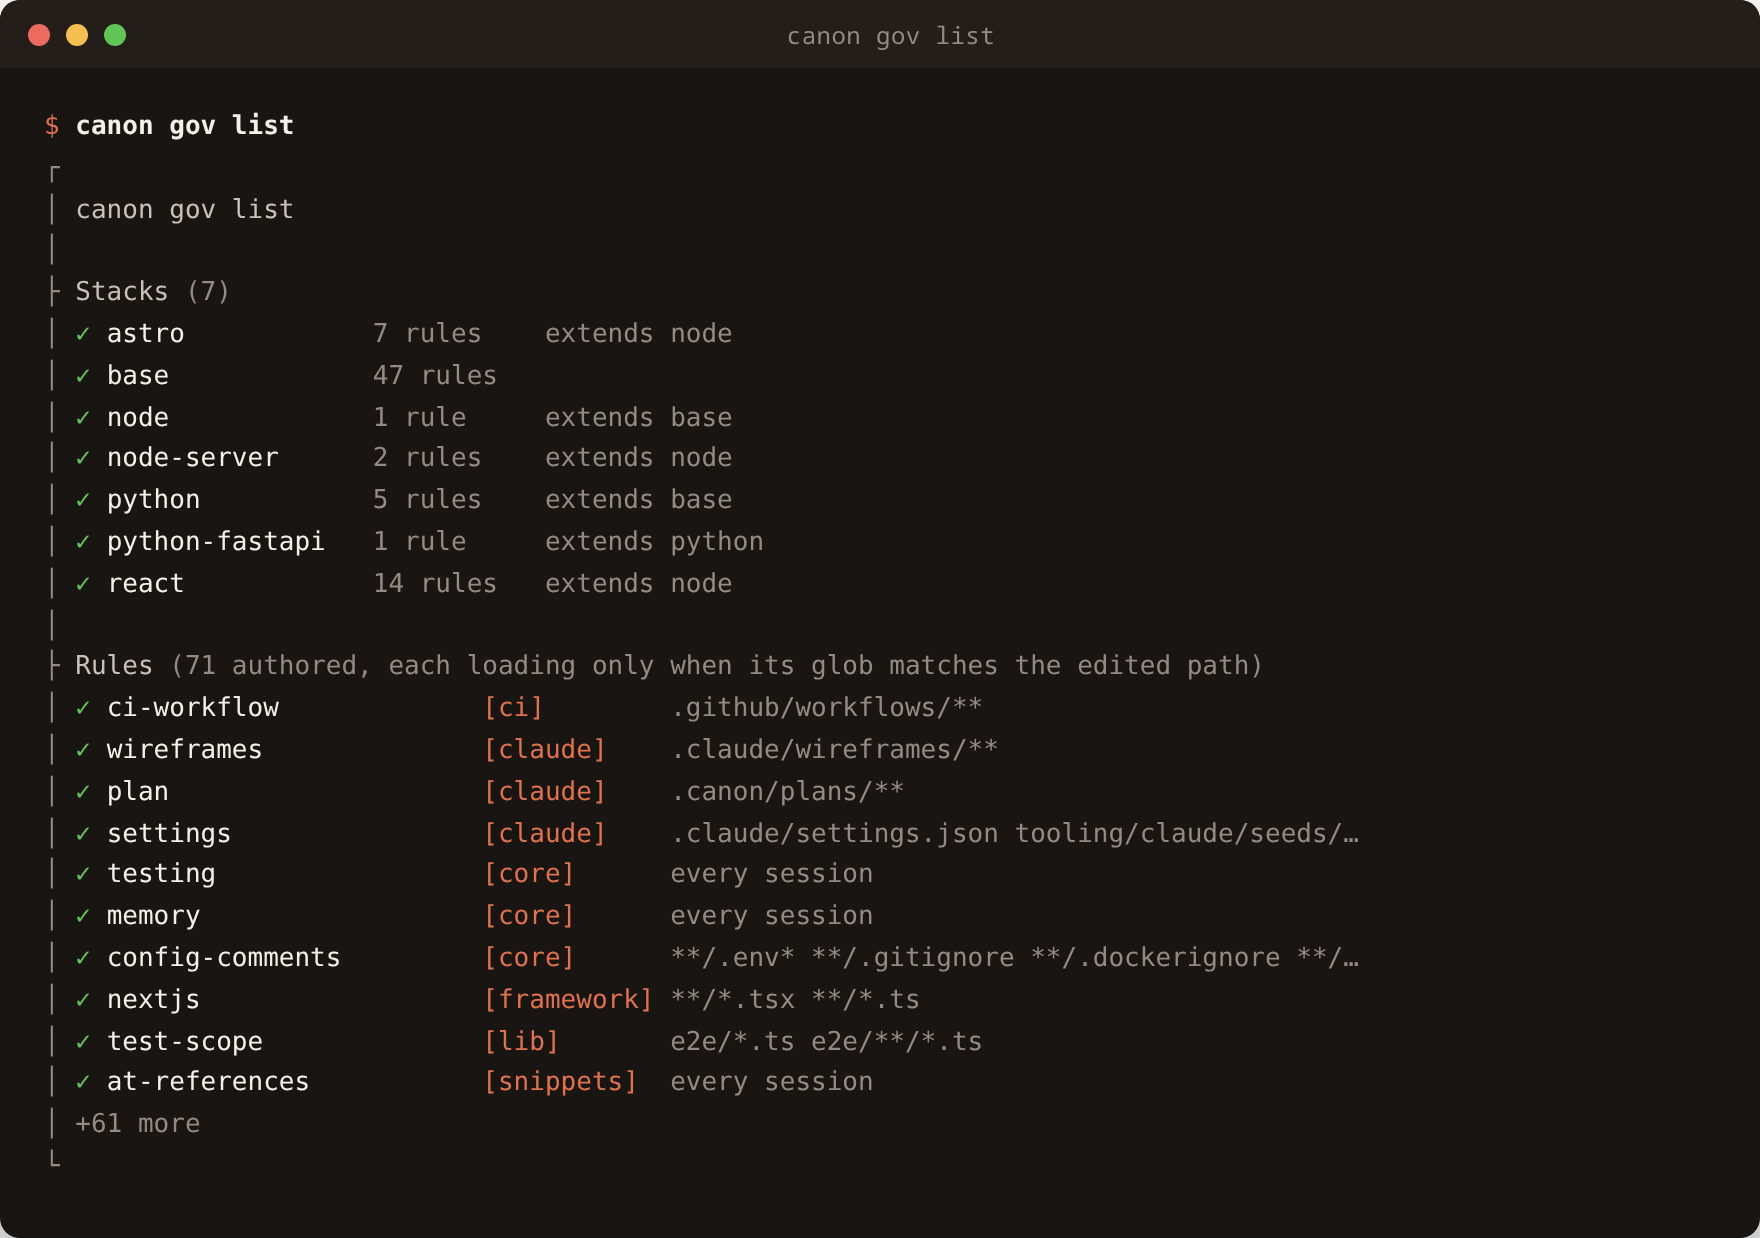
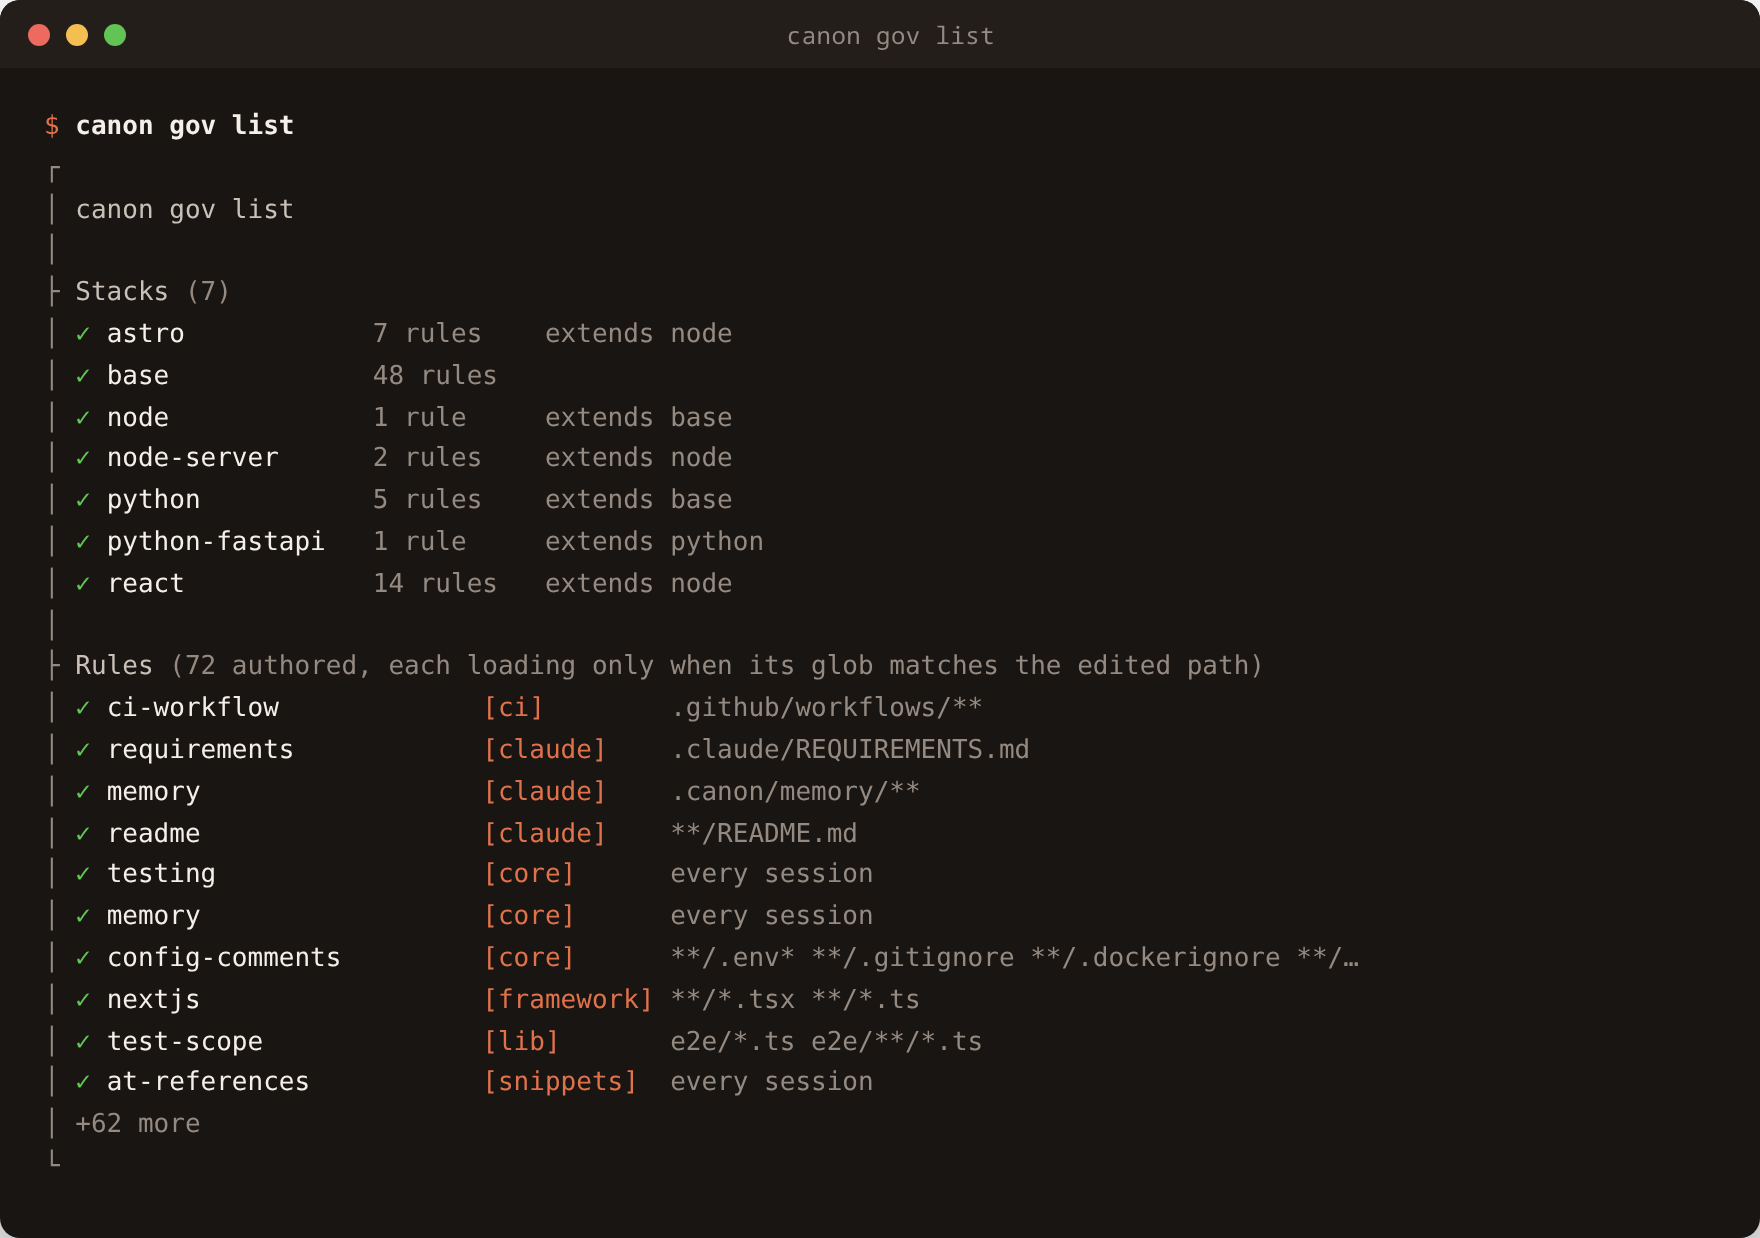
feat(governance): add showcase-assets regen-and-capture rule
Claude-Session: https://claude.ai/code/session_018o8SKvistHangxmeSjH3S4

Changed region(s): [[0.4062, 0.5832, 0.5938, 0.6753], [0.0625, 0.5832, 0.125, 0.6753], [0.6875, 0.6446, 0.75, 0.6753]]

diff --git a/assets/showcase-governance.html b/assets/showcase-governance.html
@@ -179,25 +179,25 @@
 <span class="frame">│</span>
 <span class="frame">├</span> Stacks <span class="muted">(7)</span>
 <span class="frame">│</span> <span class="ok">✓</span> <span class="name">astro            </span><span class="muted">7 rules    </span><span class="muted">extends node</span>
-<span class="frame">│</span> <span class="ok">✓</span> <span class="name">base             </span><span class="muted">47 rules   </span><span class="muted"></span>
+<span class="frame">│</span> <span class="ok">✓</span> <span class="name">base             </span><span class="muted">48 rules   </span><span class="muted"></span>
 <span class="frame">│</span> <span class="ok">✓</span> <span class="name">node             </span><span class="muted">1 rule     </span><span class="muted">extends base</span>
 <span class="frame">│</span> <span class="ok">✓</span> <span class="name">node-server      </span><span class="muted">2 rules    </span><span class="muted">extends node</span>
 <span class="frame">│</span> <span class="ok">✓</span> <span class="name">python           </span><span class="muted">5 rules    </span><span class="muted">extends base</span>
 <span class="frame">│</span> <span class="ok">✓</span> <span class="name">python-fastapi   </span><span class="muted">1 rule     </span><span class="muted">extends python</span>
 <span class="frame">│</span> <span class="ok">✓</span> <span class="name">react            </span><span class="muted">14 rules   </span><span class="muted">extends node</span>
 <span class="frame">│</span>
-<span class="frame">├</span> Rules <span class="muted">(71 authored, each loading only when its glob matches the edited path)</span>
+<span class="frame">├</span> Rules <span class="muted">(72 authored, each loading only when its glob matches the edited path)</span>
 <span class="frame">│</span> <span class="ok">✓</span> <span class="name">ci-workflow             </span><span class="domain">[ci]        </span><span class="muted">.github/workflows/**</span>
-<span class="frame">│</span> <span class="ok">✓</span> <span class="name">wireframes              </span><span class="domain">[claude]    </span><span class="muted">.claude/wireframes/**</span>
-<span class="frame">│</span> <span class="ok">✓</span> <span class="name">plan                    </span><span class="domain">[claude]    </span><span class="muted">.canon/plans/**</span>
-<span class="frame">│</span> <span class="ok">✓</span> <span class="name">settings                </span><span class="domain">[claude]    </span><span class="muted">.claude/settings.json tooling/claude/seeds/…</span>
+<span class="frame">│</span> <span class="ok">✓</span> <span class="name">requirements            </span><span class="domain">[claude]    </span><span class="muted">.claude/REQUIREMENTS.md</span>
+<span class="frame">│</span> <span class="ok">✓</span> <span class="name">memory                  </span><span class="domain">[claude]    </span><span class="muted">.canon/memory/**</span>
+<span class="frame">│</span> <span class="ok">✓</span> <span class="name">readme                  </span><span class="domain">[claude]    </span><span class="muted">**/README.md</span>
 <span class="frame">│</span> <span class="ok">✓</span> <span class="name">testing                 </span><span class="domain">[core]      </span><span class="muted">every session</span>
 <span class="frame">│</span> <span class="ok">✓</span> <span class="name">memory                  </span><span class="domain">[core]      </span><span class="muted">every session</span>
 <span class="frame">│</span> <span class="ok">✓</span> <span class="name">config-comments         </span><span class="domain">[core]      </span><span class="muted">**/.env* **/.gitignore **/.dockerignore **/…</span>
 <span class="frame">│</span> <span class="ok">✓</span> <span class="name">nextjs                  </span><span class="domain">[framework] </span><span class="muted">**/*.tsx **/*.ts</span>
 <span class="frame">│</span> <span class="ok">✓</span> <span class="name">test-scope              </span><span class="domain">[lib]       </span><span class="muted">e2e/*.ts e2e/**/*.ts</span>
 <span class="frame">│</span> <span class="ok">✓</span> <span class="name">at-references           </span><span class="domain">[snippets]  </span><span class="muted">every session</span>
-<span class="frame">│</span> <span class="muted">+61 more</span>
+<span class="frame">│</span> <span class="muted">+62 more</span>
 <span class="frame">└</span></pre>
     </div>
   </body>

diff --git a/assets/hero.html b/assets/hero.html
@@ -281,20 +281,20 @@
 
           <div class="col">
             <div class="col-head">
-              <span class="col-name">rules</span><span class="col-count">71</span>
+              <span class="col-name">rules</span><span class="col-count">72</span>
             </div>
             <div class="col-dest">.claude/rules/</div>
             <div class="entry">ci-workflow</div>
-            <div class="entry">wireframes</div>
-            <div class="entry">plan</div>
-            <div class="entry">settings</div>
+            <div class="entry">requirements</div>
+            <div class="entry">memory</div>
+            <div class="entry">readme</div>
             <div class="entry">testing</div>
             <div class="entry">memory</div>
             <div class="entry">config-comments</div>
             <div class="entry">nextjs</div>
             <div class="entry">test-scope</div>
             <div class="entry">at-references</div>
-            <div class="more">+61 more</div>
+            <div class="more">+62 more</div>
           </div>
 
           <div class="col">

diff --git a/.claude/context/development/regeneration.md b/.claude/context/development/regeneration.md
@@ -15,7 +15,7 @@ The assert reads the unstaged diff, so the first `bun run check` after an edit u
 
 Staging to clear the stage changes what the next skill in that chain measures. `claude-review` scopes to the staged set whenever one is non-empty, so a run that staged three regenerated rules reviews those three files and reports a clean branch for the source sitting untracked beside them. Reset the index before the review step and let the chain restage at its own commit step. Nothing reports the narrowed scope, since a review of three files is indistinguishable from a branch that changed three files.
 
-`.claude/rules/` is not a whole-directory mirror, because the toolkit authors 70 rules under `governance/rules/` and consumes 62 into `.claude/rules/`, and installing the framework rules here would fire a React rule on a fixture this repository writes. The ui rules are consumed and the framework rules are not, which separates two families this sentence read as one until this repository started rendering surfaces of its own. `internal/governance.toml` carries that reason beside the list. It resolves through `canon gov regen` instead, which reads the stack named in `internal/governance.toml` and installs it with the same machinery `canon gov install` uses for a target.
+`.claude/rules/` is not a whole-directory mirror, because the toolkit authors 72 rules under `governance/rules/` and consumes 64 into `.claude/rules/`, and installing the framework rules here would fire a React rule on a fixture this repository writes. The ui rules are consumed and the framework rules are not, which separates two families this sentence read as one until this repository started rendering surfaces of its own. `internal/governance.toml` carries that reason beside the list. It resolves through `canon gov regen` instead, which reads the stack named in `internal/governance.toml` and installs it with the same machinery `canon gov install` uses for a target.
 
 The producer clears `.claude/rules/` before installing, so a rule dropped from the record disappears rather than lingering as an unsourced file. That is also why `internal/rules/` exists: a rule governing toolkit authoring alone needs a source somewhere outside `governance/rules/`, which ships to every target. `internal/rules/` named the internal mirror's one exclusion before this branch retired that mirror entirely, so those rules land at one path now for a simpler reason: nothing under `internal/` mirrors anywhere.
 

diff --git a/.claude/context/sandbox/authoring.md b/.claude/context/sandbox/authoring.md
@@ -103,7 +103,7 @@ use_config() {
 
 There is no standards injection. Nothing installs the corpus into a project, so a sandbox holding no standards folder is the shape a scaffolded target has, and a scenario driving a skill that reads a standard exercises the resolve a real project takes rather than a staged copy.
 
-A stack install narrows what arrives. The copy it replaced took all 70 rules under `governance/rules`, while `base` resolves to 46, which is what a real target holds since no project carries both the React and FastAPI rules. A scenario needing a framework's rules sets `SANDBOX_GOV_STACK` rather than assuming every rule is present.
+A stack install narrows what arrives. The copy it replaced took all 72 rules under `governance/rules`, while `base` resolves to 48, which is what a real target holds since no project carries both the React and FastAPI rules. A scenario needing a framework's rules sets `SANDBOX_GOV_STACK` rather than assuming every rule is present.
 
 A failed install aborts provisioning with the installer's own stderr, since a sandbox missing the rules a scenario depends on would otherwise fail later somewhere unrelated.
 

diff --git a/.claude/rules/claude/581-showcase-assets.md b/.claude/rules/claude/581-showcase-assets.md
@@ -1,0 +1,17 @@
+---
+description: State the regenerate-then-capture-then-commit obligation for assets/*.html.tmpl and its generation script
+paths:
+  - 'assets/*.html.tmpl'
+  - 'scripts/core/regen-hero.sh'
+---
+
+# Showcase asset standards
+
+## Regenerating a frame
+
+- After editing a template or the generation script, run `scripts/core/regen-hero.sh`, then rebuild every image with `canon capture` (see `canon docs capture`), and commit the markup, the PNG, and the stamp together. A stamp recording a source digest the committed markup does not match fails the drift gate.
+- Add a new frame as a file directly under `assets/`, named `showcase-<slug>`. A subfolder is skipped silently by the generation script, the capture command, and the drift gate alike.
+
+## Capture source
+
+- A capture source lives under `assets/` today. `captureBases` globs `assets/*.html` and reads no other folder, so a page rendered from anywhere else has no route to a gated capture.

diff --git a/governance/rules/claude/581-showcase-assets.md b/governance/rules/claude/581-showcase-assets.md
@@ -1,0 +1,17 @@
+---
+description: State the regenerate-then-capture-then-commit obligation for assets/*.html.tmpl and its generation script
+paths:
+  - 'assets/*.html.tmpl'
+  - 'scripts/core/regen-hero.sh'
+---
+
+# Showcase asset standards
+
+## Regenerating a frame
+
+- After editing a template or the generation script, run `scripts/core/regen-hero.sh`, then rebuild every image with `canon capture` (see `canon docs capture`), and commit the markup, the PNG, and the stamp together. A stamp recording a source digest the committed markup does not match fails the drift gate.
+- Add a new frame as a file directly under `assets/`, named `showcase-<slug>`. A subfolder is skipped silently by the generation script, the capture command, and the drift gate alike.
+
+## Capture source
+
+- A capture source lives under `assets/` today. `captureBases` globs `assets/*.html` and reads no other folder, so a page rendered from anywhere else has no route to a gated capture.
